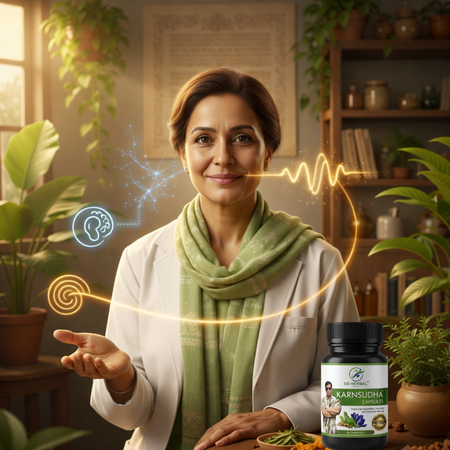
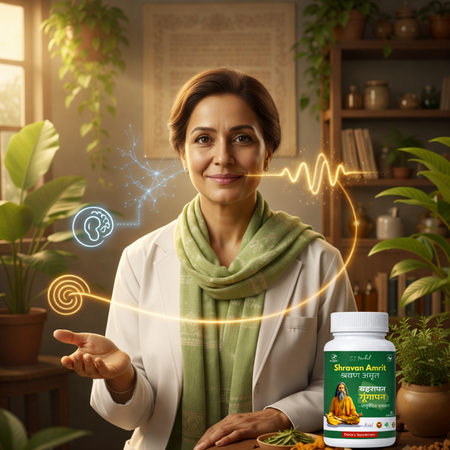
eight commit

Changed region(s): [[0.7156, 0.6844, 0.9022, 1.0]]

diff --git a/index.html b/index.html
@@ -535,7 +535,7 @@
       <div style="border-radius:12px;padding:18px;margin-bottom:18px;">
         <p style="color:#2C1A0E;font-size:26px;font-weight:700;margin:0 0 12px 0;">✨ SS Herbal India द्वारा प्रस्तुत</p>
         <p style="color:#C45A10;font-size:32px;text-decoration: underline;font-weight:800;margin:0 0 8px 0;">Shravan Amrit :-</p>
-        <img src="./Image/product.avif" class="w-32 mx-auto h-52 mb-5" alt="">
+        <img src="./Image/Shravan_Amrit.png" class="w-32 mx-auto h-52 mb-5" alt="">
         <p style="color:#4A2E14;font-size:24px;margin:0;line-height:1.7;">एक <span style="font-weight:700;">आयुर्वेदिक समाधान</span> है जो कान और Nervous System की कार्यक्षमता को <span style="color:#C45A10;font-weight:700;">प्राकृतिक रूप से सहयोग</span> देने के उद्देश्य से तैयार किया गया है।</p>
       </div>
 
